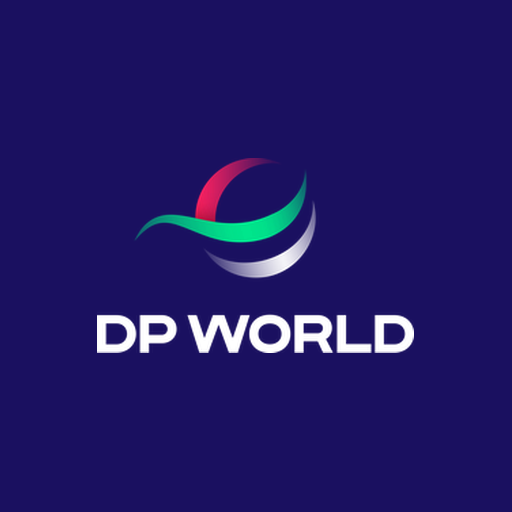
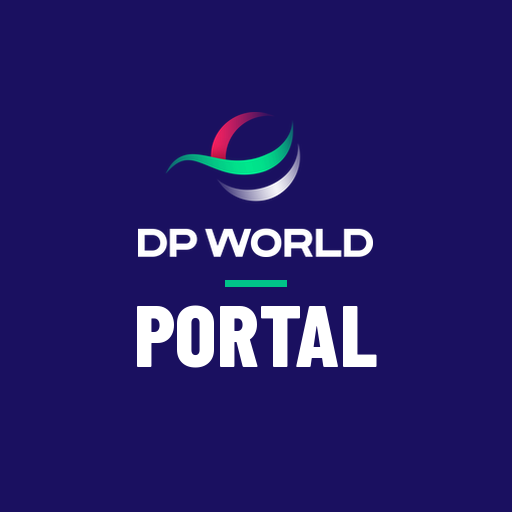
Íconos de app instalada iguales en todas (kit/pwa/generar_iconos.py)
Mismo fondo índigo, logo DP World, línea verde y nombre corto de la app en Barlow Condensed. Se sube la versión de caché del service worker para que tomen los íconos nuevos.

Claude-Session: https://claude.ai/code/session_016HvEN8KWBxrFoq9wy1oQZd

Changed region(s): [[0.25, 0.2188, 0.75, 0.5625], [0.1875, 0.5938, 0.8125, 0.7188]]

diff --git a/sw.js b/sw.js
@@ -2,7 +2,7 @@
 // Permite instalar la app y abrirla sin conexión. La app se pide primero a la red (siempre la versión publicada);
 // la copia guardada solo se usa sin conexión. Supabase nunca se guarda: los datos van siempre al servidor.
 // Al publicar un cambio grande, sube la versión de CACHE.
-const CACHE = 'portal-v1';
+const CACHE = 'portal-v2';
 const BASE = ['./', './index.html', './manifest.webmanifest', './dpw/dpw-shell.css', './dpw/dpw-shell.js', './dpw/dpw-escenas.js', './dpw/dpw-mapa.js',
   './dpw/assets/dpworld-logo-fondo-claro.png', './dpw/pwa/icon-192.png', './dpw/pwa/icon-512.png'];
 

diff --git a/.claude/skills/linea-grafica/kit/pwa/generar_iconos.py b/.claude/skills/linea-grafica/kit/pwa/generar_iconos.py
@@ -1,0 +1,60 @@
+"""Íconos de app instalable, iguales para todas las apps DP World Panamá (skill linea-grafica).
+
+Mismo fondo índigo #1A1060, logo DP World en blanco, línea verde #00C389 y el nombre corto de la app
+en Barlow Condensed 800 mayúsculas. Todo dentro de la zona segura de los íconos «maskable».
+
+Uso:  python3 generar_iconos.py "HORAS" carpeta_destino
+Genera icon-512.png, icon-192.png, apple-touch-icon.png (180) y favicon-32.png.
+"""
+import os, sys
+from PIL import Image, ImageDraw, ImageFont
+
+AQUI = os.path.dirname(os.path.abspath(__file__))
+INDIGO, VERDE, BLANCO = (26, 16, 96), (0, 195, 137), (255, 255, 255)
+
+
+def icono(nombre, lado=512):
+    im = Image.new("RGBA", (lado, lado), INDIGO + (255,))
+    d = ImageDraw.Draw(im)
+    logo = Image.open(os.path.join(AQUI, "..", "assets", "dpworld-logo-fondo-oscuro.png")).convert("RGBA")
+    ancho = int(lado * 0.46)
+    logo = logo.resize((ancho, int(logo.height * ancho / logo.width)), Image.LANCZOS)
+    y_logo = int(lado * 0.22)
+    im.alpha_composite(logo, ((lado - ancho) // 2, y_logo))
+    # línea verde bajo el logo
+    y_lin = y_logo + logo.height + int(lado * 0.045)
+    d.rectangle([(lado - lado * 0.12) / 2, y_lin, (lado + lado * 0.12) / 2, y_lin + max(2, lado * 0.012)], fill=VERDE)
+    # nombre corto: el tamaño se ajusta para no salir de la zona segura (72 % del ancho)
+    fuente_ruta = os.path.join(AQUI, "barlow-condensed-800.woff")
+    t = int(lado * 0.17)
+    while True:
+        f = ImageFont.truetype(fuente_ruta, t)
+        caja = d.textbbox((0, 0), nombre, font=f)
+        if caja[2] - caja[0] <= lado * 0.72 or t < 8:
+            break
+        t -= 2
+    w = caja[2] - caja[0]
+    d.text(((lado - w) / 2 - caja[0], y_lin + int(lado * 0.05) - caja[1]), nombre, font=f, fill=BLANCO)
+    return im
+
+
+def generar(nombre, destino):
+    os.makedirs(destino, exist_ok=True)
+    grande = icono(nombre.upper(), 512)
+    grande.convert("RGB").save(os.path.join(destino, "icon-512.png"))
+    for archivo, lado in (("icon-192.png", 192), ("apple-touch-icon.png", 180)):
+        icono(nombre.upper(), lado).convert("RGB").save(os.path.join(destino, archivo))
+    # favicon: solo el fondo índigo y la línea verde con la inicial, legible a 32 px
+    fav = Image.new("RGB", (32, 32), INDIGO)
+    d = ImageDraw.Draw(fav)
+    f = ImageFont.truetype(os.path.join(AQUI, "barlow-condensed-800.woff"), 24)
+    c = d.textbbox((0, 0), nombre[0].upper(), font=f)
+    d.text(((32 - (c[2] - c[0])) / 2 - c[0], 3 - c[1] + 2), nombre[0].upper(), font=f, fill=BLANCO)
+    d.rectangle([9, 27, 23, 28], fill=VERDE)
+    fav.save(os.path.join(destino, "favicon-32.png"))
+
+
+if __name__ == "__main__":
+    if len(sys.argv) != 3:
+        sys.exit(__doc__)
+    generar(sys.argv[1], sys.argv[2])

diff --git a/.claude/skills/linea-grafica/SKILL.md b/.claude/skills/linea-grafica/SKILL.md
@@ -17,7 +17,7 @@ El kit está en `kit/` junto a este archivo:
 | `dpw-mapa.js` | Escena `mapa` (Panamá y rutas a 14 puertos). Solo la cargan las apps que la usan (35 KB). |
 | `plantilla.html` | Ejemplo completo y vista previa: `plantilla.html?escena=patio`, `&login=0`, `&tema=light`. |
 | `assets/` | Logos para fondo claro y oscuro. |
-| `pwa/` | `sw.js` y `manifest.webmanifest` de partida, íconos de la app (192, 512, Apple) y favicon. |
+| `pwa/` | `sw.js` y `manifest.webmanifest` de partida y `generar_iconos.py`, que crea los íconos de la app instalada (512, 192, Apple y favicon). |
 
 En cada app, el kit se copia a una carpeta `dpw/` servida junto al `index.html` (en Next.js: `public/dpw/` para los scripts y logos, y `src/app/dpw-shell.css` importado en `layout.tsx`; la cinta y el menú van como componentes React con las mismas clases, ver `alertas-calidad-app/src/components/AppHeader.tsx` y `Portada.tsx`). Si se cambia el kit, se cambia aquí en HubApp y se vuelve a copiar a cada repo; no se edita la copia de una sola app.
 
@@ -29,6 +29,7 @@ En cada app, el kit se copia a una carpeta `dpw/` servida junto al `index.html` 
 4. **Navegación en el menú desplegable.** Toda sección de la app va como fila del menú lateral (botón de tres rayas a la izquierda de la cinta). Las vistas especiales (Insights, Vista TV, Reportes, Configuración) también. La cinta solo lleva Instalar, Claro/Oscuro, el rol y Salir.
 5. **Tema claro y oscuro en todas**, con el botón de texto de la cinta (`Claro` / `Oscuro`, muestra a cuál cambia). Se guarda en `localStorage` con la clave común `dpw_tema` y vive en `<html data-theme="light|dark">`. Cada app elige su tema por defecto (Cotizador, Alertas y Control de Horas: claro; Inspección y Hub: oscuro). Las vistas de TV o piso de operación pueden quedarse oscuras, y la vista previa de documentos sigue siendo papel blanco.
 6. **Botón Instalar en todas**: en la cinta y como píldora en el login. Aparece solo cuando el navegador permite instalar; en iPhone explica el paso manual. Cada app lleva `manifest.webmanifest`, `sw.js` y los íconos de `kit/pwa/`.
+   **Ícono de la app instalada igual en todas**: fondo índigo `#1A1060`, logo DP World en blanco, línea verde `#00C389` y el nombre corto de la app en Barlow Condensed 800 (HORAS, RAMPAS, COTIZADOR, ALERTAS, PORTAL, LAST MILE). Se genera con `python3 kit/pwa/generar_iconos.py "NOMBRE" carpeta`; no se dibujan íconos a mano.
 7. **Tipografía y color**: Barlow (cuerpo) y Barlow Condensed 700–800 en mayúsculas (títulos, etiquetas, botones). Índigo `#1A1060` (hover `#2A1F8F`), verde `#00C389` para acentos, ámbar `#f5a20b` advertencia, rojo `#E8003D` error. Fondo oscuro `#0d0b28`, superficies `#16143d` / `#1e1c50`; en claro, fondo `#F2F3F8` y tarjetas blancas.
 
 ## Escenas por app
